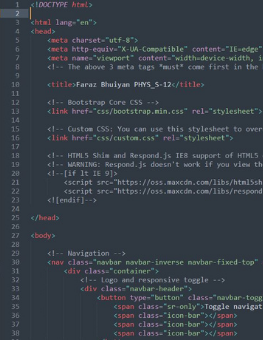
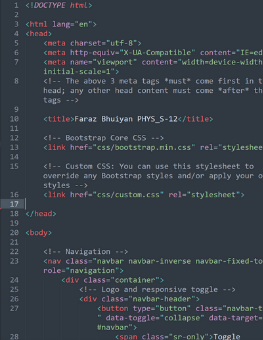
Changed headings and navbar directory

Changed region(s): [[0.0, 0.0, 1.0, 0.6176], [0.1521, 0.7353, 1.0, 1.0], [0.0, 0.2941, 0.2129, 1.0]]

diff --git a/02_2D/index.html b/02_2D/index.html
@@ -70,7 +70,7 @@
                             <li><a href="#">10: Machine building</a></li>
                             <li><a href="#">11: Computer Programming</a></li>
                             <li><a href="#">12: Wildcard / Project Prep</a></li>
-                            <li><a href="#">Final Project</a></li>
+                            <li><a href="../Final Project/index.html">Final Project</a></li>
                         </ul>
                     </li>
                 </ul>
@@ -82,7 +82,7 @@
 
     <div class="jumbotron feature">
         <div class="container">
-            <h1>01: Introduction & Documentation</h1>
+            <h1><b>02: 2D Design and Cutting</h1></b>
         </div>
     </div>
 
@@ -94,25 +94,57 @@
             <div class="col-lg-12">
                 <h1 class="page-header">What To Do: </h1>
 
-                    <p><h3 class="gray-text">    1. Create a website and make a page with a proposal for a possible final project. <br>
-                                                 2. Read Chapters 1-3 of Making Things Move and note down interesting facts. <br>
-                                                 3. Research local fab labs and makerspaces. </p></h3>
+                    <p class="gray-text"> 1. Watch a <a href="https://www.youtube.com/watch?v=vVFYrBClkPc">Fusion 360 tutorial</a>. <br>
+                                          2. Model either two kit components or simple household objects. <br> </p>
 
                  <h1 class="page-header">What I Did: </h1>
-                    <p><h3 class="gray-text"> To begin with, I was a little overwhelmed that we had to create a basic website using html and css, as I have no prior experience with either of the two. However, I found a realitvely easy to use template from <a href="https://www.quackit.com/html/templates/simple_website_templates.cfm">here</a>, and I imported and personalized it. The best part is that it's completely free (this isn't sponsored). With a lot of help from <a href="https://www.w3schools.com/html/default.asp">w3schools</a>, I was able to create the bare-bones of a somewhat-working, basic website. My website has key features like images, a working navbar, hyperlinks, etc. There are still many things I don't know to do, like what most of the stuff in the css folder means, but I'm sure with a lot of time and patience, I can learn the basics of css too. The image below is a snippet of my coding for this specific page, my intro & documentation page. Also, I researched local makerspaces. Although there aren't any that are very close to where I live, there are really good ones closer to Chicago. One of them is <a href="https://fox.build/">Fox.Build: Makerspace, Hackerspace, Coworking</a> located in St. Charles, Illinois, which is about 40 minutes away from my house. Unfortunately, there aren't any day passes, as all of their price listings are for monthly memberships. The process of filling in my own information was pretty easy, but I'm still pretty confused on the more complex tasks, like how to use different fonts and insert multiple images in a collage. </p><br></h3>
+                    <p style="text-align: justify"> This assignment wasn't realy as overwhelming as the first one was, mainly because I have a good bit of prior experience using CAD software. In school, I learned how to use <a href="https://www.autodesk.com/products/inventor/overview?term=1-YEAR">Autodesk Inventor</a>, which is basically the same as Fusion 360. I started off by using inventor but then later switched to Fusion 360, because I wanted to learn the software that we will be using in class and to easily embed a Fusion 360 model viewer.</p>
 
-                    <p><h4 class="gray-text">Part of my code of this specific webpage.</p></h4>
-                    <img src="01_Code.JPG" alt="Website Code" width="1000px"> 
+                    <p style="text-align: justify">Also, I researched local makerspaces. Although there aren't any that are very close to where I live, there are really good ones closer to Chicago. One of them is <a href="https://fox.build/">Fox.Build: Makerspace, Hackerspace, Coworking</a> located in St. Charles, Illinois, which is about 40 minutes away from my house. Unfortunately, there aren't any day passes, as all of their price listings are for monthly memberships. I'm sure if I reach out to them and ask about day passed, we can work something out. Although, I already have a few power tools and a 3D printer at home, so I can easily make do with what I have. </p><br><br> 
+            </div>
+
+                <div class="row">
+
+                    <div class="col-lg-6">
+                      <img src="01_Code.JPG" style="width:100%" alt="Webpage Code">
+                    </div >
+
+                    <div class="col-lg-6">
+                      <p style="text-align: justify"> The code-editing app we are using is Sublime Text. The code in the first image is edited on Sublime Text and is part of my code of this specific webpage. Most of the actual "coding" I am is just changing the template to better suit how I want my website porfolio to look, like changing the header and footer colors using CSS. There's definitely a steep learning curve, but I've been catching on pretty quickly. </p>
+
+                     <p style="text-align: justify"> With the help of our TA Victoria, I was able to get a few fucnctions working that weren't working before, like the assignment drop-down list, which is at the top of the website. The drop-down list in particular was a headache to figure out, because it just wasn't working properly. The solution was as simple as adding two dots ".." before the JavaScript source. Adding one dot "." means that the source is in the parent folder of the current index. Similarly, adding two dots ".." means that the source is two folders outside of the current index. 
+
+                    <p style="text-align: justify"> I also organized my folders so that in the future, when I want to add something to a certain assignment, it would be simple and easy to understand. The folder list is on the left-hand side of the Sublime Text application. The actual code is on the large section to the right of the folder list. In the image, you can actually see the what these paragraphs I'm writing look like in HTML code. </p> <br> <br> 
+                    </div >
+                </div>  
+
+                <div class="row">
+
+                  <div class="col-lg-5">
+                     <p style="text-align: justify"> The second image is the GitHub Desktop application. Whenever I change my code in Sublime Text, it only changes my website when I locally view it (opened through the index file). So, I use the GitHub Desktop app to push any of my changes that I made in the code to the actual website. In the app, you can see everything that was edited, so you know exactly what you're changing. There is also a way to make a "branch," which is a diversion from the main. So, if I wanted to test a few things but didn't want to edit my main website, I could make a branch and safely test out new code.</p>
+
+                     <p style="text-align: justify"> The process for uploading on this app is really simple. All I have to do is open the app after I have edited the code, write out a mandatory summary of the changes I made, then click "Commit to main." And just like that, I can easily update my website whenever I want.</p>
+                 </div >
+                  <div class="col-lg-7">
+                      <img src="01_GitHubDesktop.JPG" style="width:105%" alt="GitHub Desktop Application">
+                    </div >
+               </div> 
 
                 <h1 class="page-header">What I Learned: </h1>
-                     <p> » What we will do during the course <br>
-                         » The very basics of using HTML and CSS for creating websites </p>
+                     <p> » The basics of using HTML and CSS<br>
+                         » How to use key features of Sublime Text <br>
+                         » How to use key featurs of GitHub Desktop <br>
+                         » How to locally view my website <br>
+                         » Basic troubleshooting methods <br>
+                         » How to create new CSS styles <br>
+                         » What HTML classes are
+                     </p>
 
             </div>
         </div>
         <div class="small-print">
             <div class="container">
-                <p>Copyright &copy; Faraz Bhuiyan 2021 </p>
+                <p style="text-align: center">Copyright &copy; Faraz Bhuiyan 2021 </p>
             </div>
         </div>
     </div>

diff --git a/index.html b/index.html
@@ -15,13 +15,6 @@
     <!-- Custom CSS: You can use this stylesheet to override any Bootstrap styles and/or apply your own styles -->
     <link href="css/custom.css" rel="stylesheet">
 
-    <!-- HTML5 Shim and Respond.js IE8 support of HTML5 elements and media queries -->
-    <!-- WARNING: Respond.js doesn't work if you view the page via file:// -->
-    <!--[if lt IE 9]>
-        <script src="https://oss.maxcdn.com/libs/html5shiv/3.7.0/html5shiv.js"></script>
-        <script src="https://oss.maxcdn.com/libs/respond.js/1.4.2/respond.min.js"></script>
-    <![endif]-->
-
 </head>
 
 <body>
@@ -59,7 +52,7 @@
 						<a href="#" class="dropdown-toggle" data-toggle="dropdown" role="button" aria-haspopup="true" aria-expanded="false">Assignments<span class="caret"></span></a>
 						<ul class="dropdown-menu" aria-labelledby="about-us">
 							<li><a href="./01_Intro/index.html">01: Introduction & Documentation </a></li>
-							<li><a href="#">02: 2D Design & Cutting</a></li>
+							<li><a href="./02_2D/index.html">02: 2D Design & Cutting</a></li>
 							<li><a href="#">03: Electronics and Tools</a></li>
                             <li><a href="#">04: Rapid Prototyping</a></li>
                             <li><a href="#">05: Programmable Electronics</a></li>
@@ -102,7 +95,7 @@
         <div class="row">
             <article class="col-lg-3 article-intro">
                 <a href="./01_Intro/index.html">
-                    <img class="img-responsive img-rounded" src="./01_Intro/01_Web3.JPG" alt="Website Code">
+                    <img class="img-responsive img-rounded" src="./01_Intro/01_Web.png" alt="Website Code">
                 </a>
                 <h3>
                     <a href="./01_Intro/index.html">01: Introduction & Documentation</a> <!-- Assignment Name -->
@@ -111,11 +104,11 @@
             </article>
 
             <article class="col-md-3 article-intro">
-                <a href="#">
+                <a href="./02_2D/index.html">
                     <img class="img-responsive img-rounded" src="PlaceHolder.jpg" alt="01 Image">
                 </a>
                 <h3>
-                    <a href="#">02: 2D Design & Cutting</a> <!-- Assignment Name -->
+                    <a href="./02_2D/index.html">02: 2D Design & Cutting</a> <!-- Assignment Name -->
                 </h3>
                 <h4 class="gray-text"> Watch Fusion 360 tutorials, select 2 components from the kit to model in Fusion 360, and read <a href="https://learn.sparkfun.com/tutorials/what-is-electricity">What is electricity?</a>, <a href="https://learn.sparkfun.com/tutorials/what-is-a-circuit">What is a circuit?</a>, and <a href="https://learn.sparkfun.com/tutorials/electric-power">Electric power.</a></h4> <!-- Description -->
             </article>

diff --git a/About Me/index.html b/About Me/index.html
@@ -1,5 +1,5 @@
 <!DOCTYPE html>
-<!-- Template by Quackit.com -->
+
 <html lang="en">
 <head>
     <meta charset="utf-8">
@@ -96,11 +96,11 @@
                     <p class="col-lg-5" style="text-align: justify"> Hello! My name is Faraz Bhuiyan, and I'm currently a 17-year old living in Naperville, Illinois. My hobbies include 3D printing, fish keeping, and playing the piano. I love going to local museums, like Museum of Science and Industry, the Field Museum, and Shedd Aquarium, all of which are in Chicago, about a 40 minute drive from my house. I also love playing videogames during my free time. The main reason I joined this course is because I have been interested in designing and modeling (personal fabrication) for as long as I can remember. From drawing model rockets as a child to building a 3D printer to physically creating my designs now, my interest in the STEM field has grown significantly throughout my life, especially in engineering. In the future, I want to pursue a career in civil or structural engineering, as those are my two favorite engineering fields.</p>
 
                 <h4 style="text-align: center"  class="gray-text">Me in front of the lion statue at The Art Institute of Chicago </h4> 
-                 <img src="Me.jpg" class="center" style= "border-radius: 50%" alt="Me at art museum" width= 280px> 
+                 <img src="Me.jpg" class="center img-rounded" alt="Me at art museum" width= 280px> 
             </div>
         </div>
                         <br>
-                        
+
         <div class="row">
             <div class="col-lg-12">
                 <h1 class="page-header"  style="text-align: center">  Fun Facts About Me: </h1> 
